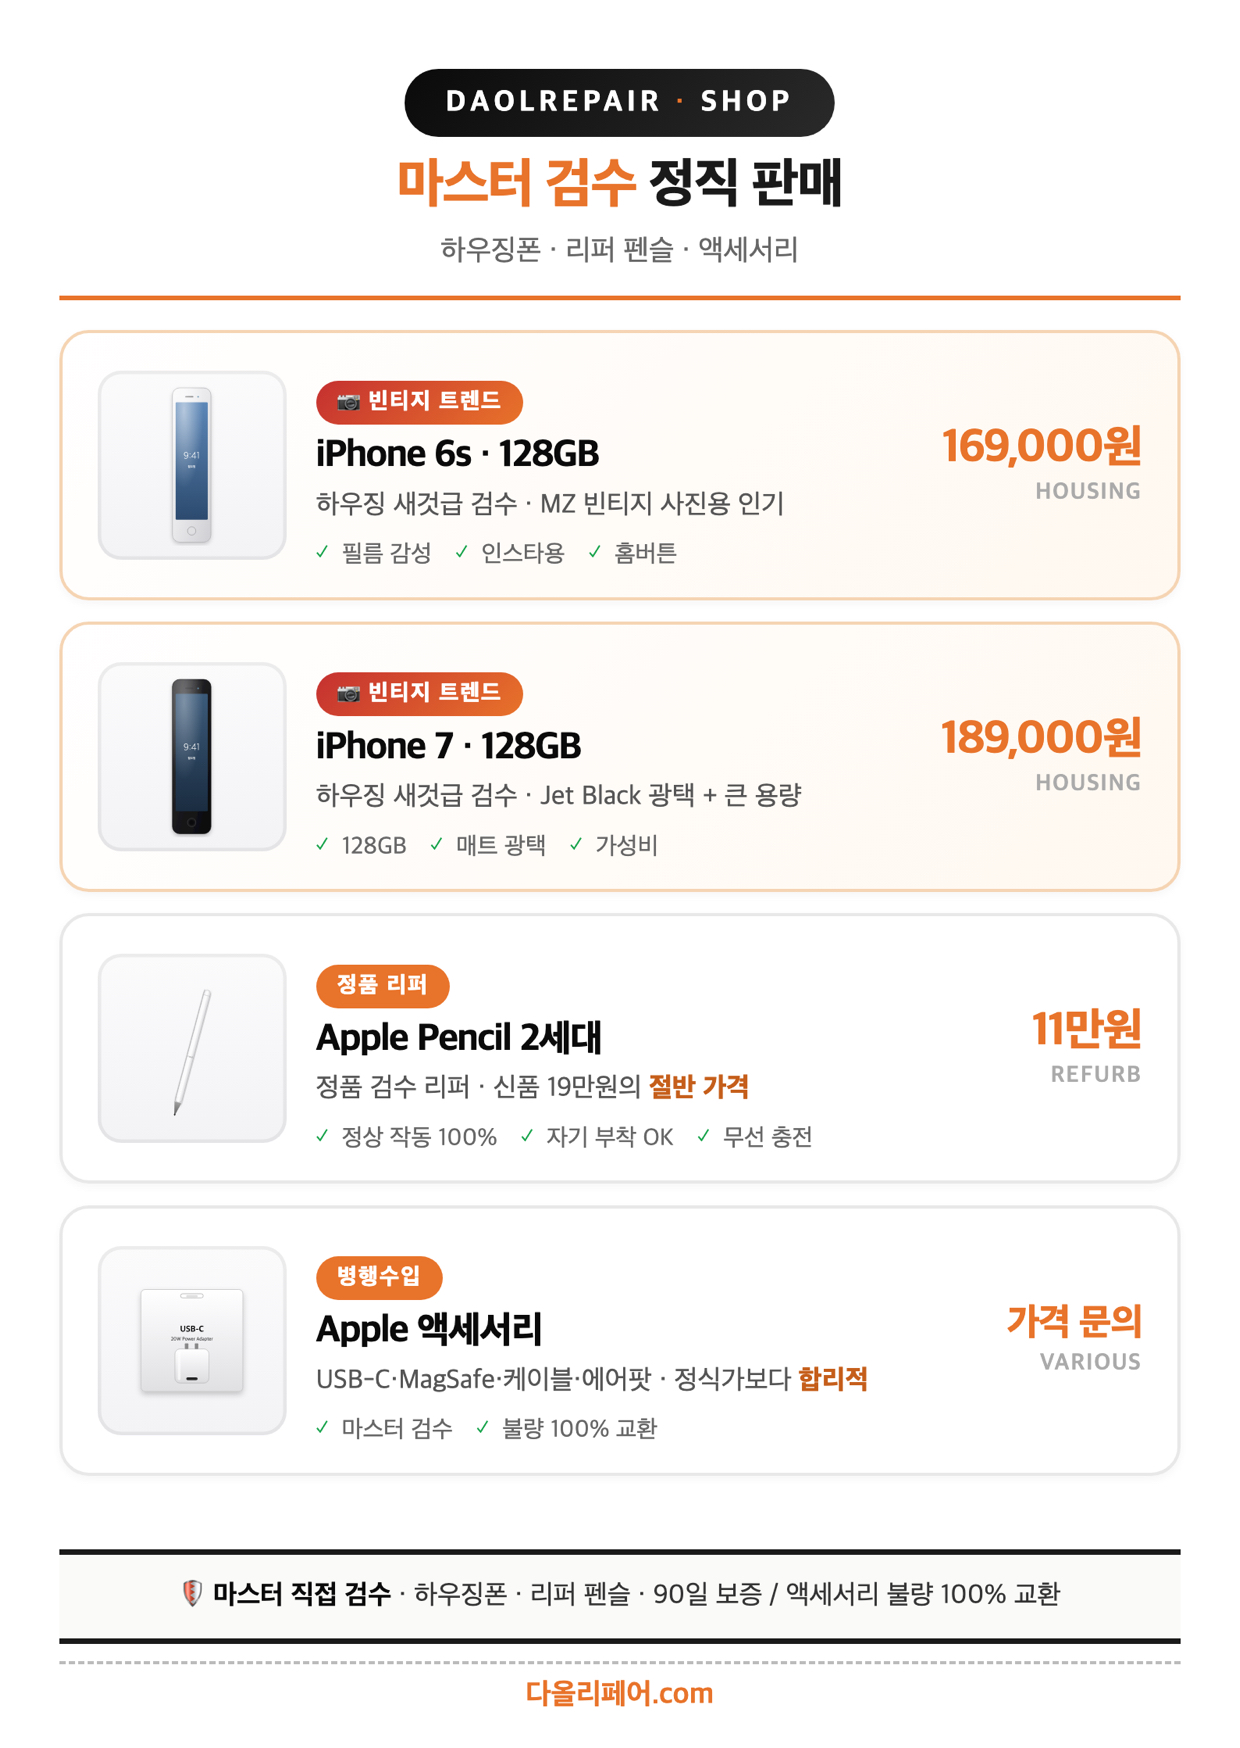
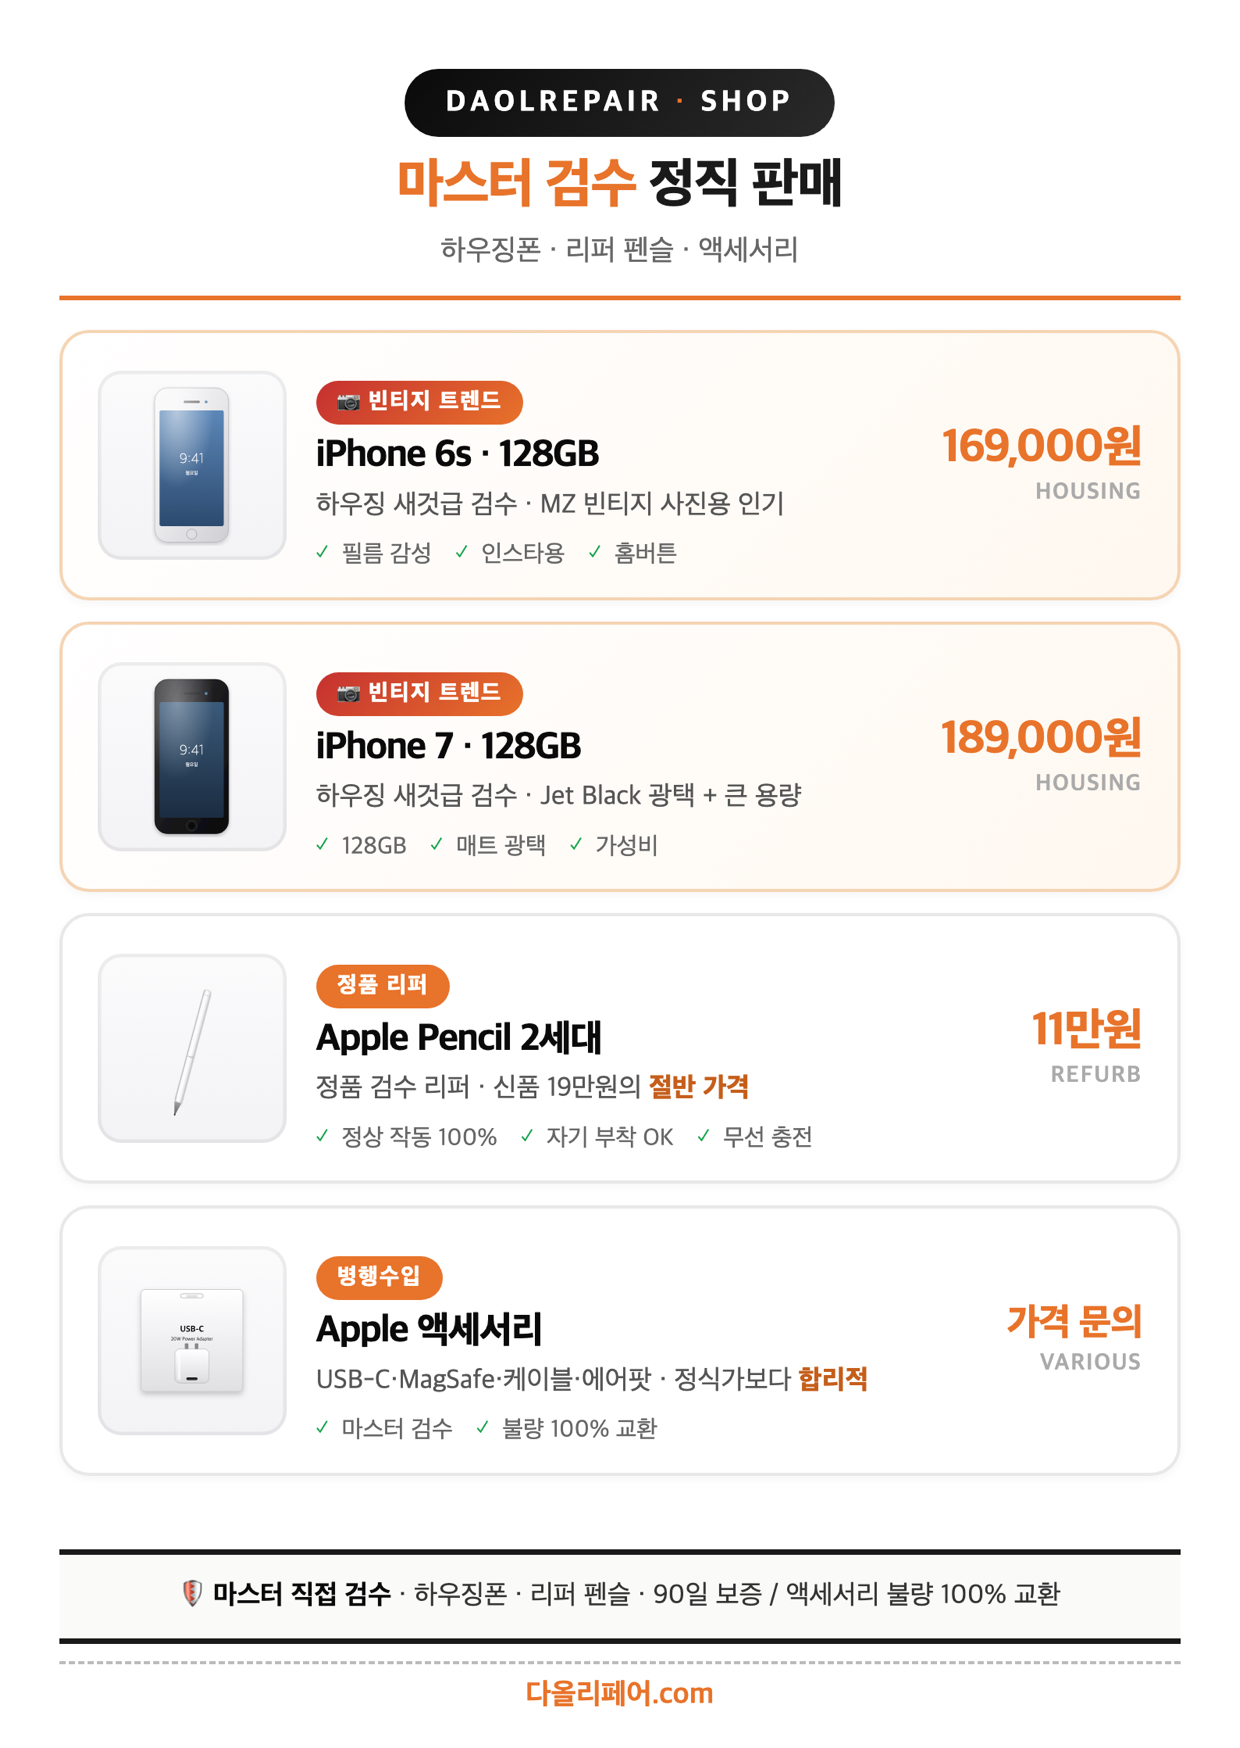
SHOP A6 — iPhone SVG 비율 정정 (1:4 → 1:2.09 실제 비율)
- iPhone 6s/7 SVG가 viewBox 50×100 안에서 본체 24×96 (가로:세로 1:4) 으로
  너무 길게 그려져 있던 문제 수정
- 본체를 46×96 (1:2.09, 실제 iPhone 6s/7 비율)로 키워 viewBox 거의 가득 채움
- 화면·시계·홈버튼·스피커·카메라 좌표 모두 새 본체 비율에 맞게 재배치
- A6 JPG 재렌더링 완료

Changed region(s): [[0.1226, 0.3707, 0.1839, 0.4943], [0.1226, 0.2162, 0.1839, 0.3089]]

diff --git a/articles/notice-shop-print.html b/articles/notice-shop-print.html
@@ -252,7 +252,7 @@
     </div>
 
     <div class="a6-grid">
-      <!-- 1. iPhone 6s (Silver) — 실제 비율 1:2.06 -->
+      <!-- 1. iPhone 6s (Silver) — 실제 비율 1:2.06 (본체 46×96 ≈ viewBox 가득) -->
       <div class="a6-item featured">
         <div class="a6-item-img">
           <svg viewBox="0 0 50 100" xmlns="http://www.w3.org/2000/svg">
@@ -272,21 +272,21 @@
               </radialGradient>
               <filter id="i6s-shadow"><feDropShadow dx="0" dy="1.2" stdDeviation="1.2" flood-color="#000" flood-opacity="0.18"/></filter>
             </defs>
-            <!-- 본체 24×49 (실제 비율 1:2.04) -->
-            <rect x="13" y="2" width="24" height="96" rx="4.5" fill="url(#i6s-body)" stroke="#a8a8aa" stroke-width="0.3" filter="url(#i6s-shadow)"/>
+            <!-- 본체 46×96 (1:2.09, 실제 비율) — viewBox 거의 가득 -->
+            <rect x="2" y="2" width="46" height="96" rx="8" fill="url(#i6s-body)" stroke="#a8a8aa" stroke-width="0.3" filter="url(#i6s-shadow)"/>
             <!-- 화면 -->
-            <rect x="15" y="11" width="20" height="73" rx="0.6" fill="url(#i6s-screen)"/>
+            <rect x="5" y="16" width="40" height="72" rx="1" fill="url(#i6s-screen)"/>
             <!-- 시계 -->
-            <text x="25" y="46" text-anchor="middle" font-family="-apple-system,sans-serif" font-size="6" fill="#fff" font-weight="200">9:41</text>
-            <text x="25" y="51.5" text-anchor="middle" font-family="-apple-system,sans-serif" font-size="1.8" fill="#fff" opacity="0.85">월요일</text>
+            <text x="25" y="49" text-anchor="middle" font-family="-apple-system,sans-serif" font-size="9" fill="#fff" font-weight="200">9:41</text>
+            <text x="25" y="56" text-anchor="middle" font-family="-apple-system,sans-serif" font-size="3" fill="#fff" opacity="0.85">월요일</text>
             <!-- 스피커·카메라 -->
-            <rect x="21" y="7" width="5" height="0.9" rx="0.3" fill="#666"/>
-            <circle cx="29" cy="7.5" r="0.5" fill="#5a8aaa"/>
+            <rect x="20" y="10" width="10" height="1.4" rx="0.5" fill="#666"/>
+            <circle cx="34" cy="10.7" r="0.9" fill="#5a8aaa"/>
             <!-- 홈버튼 -->
-            <circle cx="25" cy="91" r="2.6" fill="none" stroke="#a8a8aa" stroke-width="0.4"/>
-            <circle cx="25" cy="91" r="1.8" fill="#e0e0e2"/>
+            <circle cx="25" cy="93" r="3.2" fill="none" stroke="#a8a8aa" stroke-width="0.4"/>
+            <circle cx="25" cy="93" r="2.2" fill="#e0e0e2"/>
             <!-- 광택 -->
-            <rect x="13" y="2" width="24" height="96" rx="4.5" fill="url(#i6s-shine)"/>
+            <rect x="2" y="2" width="46" height="96" rx="8" fill="url(#i6s-shine)"/>
           </svg>
         </div>
         <div class="a6-item-body">
@@ -302,7 +302,7 @@
         <div class="a6-item-price">169,000원<small>HOUSING</small></div>
       </div>
 
-      <!-- 2. iPhone 7 (Jet Black) — 실제 비율 1:2.06 -->
+      <!-- 2. iPhone 7 (Jet Black) — 실제 비율 1:2.06 (본체 46×96 ≈ viewBox 가득) -->
       <div class="a6-item featured">
         <div class="a6-item-img">
           <svg viewBox="0 0 50 100" xmlns="http://www.w3.org/2000/svg">
@@ -322,15 +322,15 @@
               </radialGradient>
               <filter id="i7-shadow"><feDropShadow dx="0" dy="1.2" stdDeviation="1.2" flood-color="#000" flood-opacity="0.25"/></filter>
             </defs>
-            <rect x="13" y="2" width="24" height="96" rx="4.5" fill="url(#i7-body)" stroke="#0a0a0c" stroke-width="0.3" filter="url(#i7-shadow)"/>
-            <rect x="15" y="11" width="20" height="73" rx="0.6" fill="url(#i7-screen)"/>
-            <text x="25" y="46" text-anchor="middle" font-family="-apple-system,sans-serif" font-size="6" fill="#fff" font-weight="200">9:41</text>
-            <text x="25" y="51.5" text-anchor="middle" font-family="-apple-system,sans-serif" font-size="1.8" fill="#fff" opacity="0.85">월요일</text>
-            <rect x="21" y="7" width="5" height="0.9" rx="0.3" fill="#1a1a1c"/>
-            <circle cx="29" cy="7.5" r="0.5" fill="#5a8aaa"/>
-            <circle cx="25" cy="91" r="2.6" fill="none" stroke="#3a3a3c" stroke-width="0.4"/>
-            <circle cx="25" cy="91" r="1.8" fill="#0a0a0c" stroke="#2a2a2c" stroke-width="0.2"/>
-            <rect x="13" y="2" width="24" height="96" rx="4.5" fill="url(#i7-shine)"/>
+            <rect x="2" y="2" width="46" height="96" rx="8" fill="url(#i7-body)" stroke="#0a0a0c" stroke-width="0.3" filter="url(#i7-shadow)"/>
+            <rect x="5" y="16" width="40" height="72" rx="1" fill="url(#i7-screen)"/>
+            <text x="25" y="49" text-anchor="middle" font-family="-apple-system,sans-serif" font-size="9" fill="#fff" font-weight="200">9:41</text>
+            <text x="25" y="56" text-anchor="middle" font-family="-apple-system,sans-serif" font-size="3" fill="#fff" opacity="0.85">월요일</text>
+            <rect x="20" y="10" width="10" height="1.4" rx="0.5" fill="#1a1a1c"/>
+            <circle cx="34" cy="10.7" r="0.9" fill="#5a8aaa"/>
+            <circle cx="25" cy="93" r="3.2" fill="none" stroke="#3a3a3c" stroke-width="0.4"/>
+            <circle cx="25" cy="93" r="2.2" fill="#0a0a0c" stroke="#2a2a2c" stroke-width="0.2"/>
+            <rect x="2" y="2" width="46" height="96" rx="8" fill="url(#i7-shine)"/>
           </svg>
         </div>
         <div class="a6-item-body">

diff --git a/dist/articles/notice-shop-print.html b/dist/articles/notice-shop-print.html
@@ -252,7 +252,7 @@
     </div>
 
     <div class="a6-grid">
-      <!-- 1. iPhone 6s (Silver) — 실제 비율 1:2.06 -->
+      <!-- 1. iPhone 6s (Silver) — 실제 비율 1:2.06 (본체 46×96 ≈ viewBox 가득) -->
       <div class="a6-item featured">
         <div class="a6-item-img">
           <svg viewBox="0 0 50 100" xmlns="http://www.w3.org/2000/svg">
@@ -272,21 +272,21 @@
               </radialGradient>
               <filter id="i6s-shadow"><feDropShadow dx="0" dy="1.2" stdDeviation="1.2" flood-color="#000" flood-opacity="0.18"/></filter>
             </defs>
-            <!-- 본체 24×49 (실제 비율 1:2.04) -->
-            <rect x="13" y="2" width="24" height="96" rx="4.5" fill="url(#i6s-body)" stroke="#a8a8aa" stroke-width="0.3" filter="url(#i6s-shadow)"/>
+            <!-- 본체 46×96 (1:2.09, 실제 비율) — viewBox 거의 가득 -->
+            <rect x="2" y="2" width="46" height="96" rx="8" fill="url(#i6s-body)" stroke="#a8a8aa" stroke-width="0.3" filter="url(#i6s-shadow)"/>
             <!-- 화면 -->
-            <rect x="15" y="11" width="20" height="73" rx="0.6" fill="url(#i6s-screen)"/>
+            <rect x="5" y="16" width="40" height="72" rx="1" fill="url(#i6s-screen)"/>
             <!-- 시계 -->
-            <text x="25" y="46" text-anchor="middle" font-family="-apple-system,sans-serif" font-size="6" fill="#fff" font-weight="200">9:41</text>
-            <text x="25" y="51.5" text-anchor="middle" font-family="-apple-system,sans-serif" font-size="1.8" fill="#fff" opacity="0.85">월요일</text>
+            <text x="25" y="49" text-anchor="middle" font-family="-apple-system,sans-serif" font-size="9" fill="#fff" font-weight="200">9:41</text>
+            <text x="25" y="56" text-anchor="middle" font-family="-apple-system,sans-serif" font-size="3" fill="#fff" opacity="0.85">월요일</text>
             <!-- 스피커·카메라 -->
-            <rect x="21" y="7" width="5" height="0.9" rx="0.3" fill="#666"/>
-            <circle cx="29" cy="7.5" r="0.5" fill="#5a8aaa"/>
+            <rect x="20" y="10" width="10" height="1.4" rx="0.5" fill="#666"/>
+            <circle cx="34" cy="10.7" r="0.9" fill="#5a8aaa"/>
             <!-- 홈버튼 -->
-            <circle cx="25" cy="91" r="2.6" fill="none" stroke="#a8a8aa" stroke-width="0.4"/>
-            <circle cx="25" cy="91" r="1.8" fill="#e0e0e2"/>
+            <circle cx="25" cy="93" r="3.2" fill="none" stroke="#a8a8aa" stroke-width="0.4"/>
+            <circle cx="25" cy="93" r="2.2" fill="#e0e0e2"/>
             <!-- 광택 -->
-            <rect x="13" y="2" width="24" height="96" rx="4.5" fill="url(#i6s-shine)"/>
+            <rect x="2" y="2" width="46" height="96" rx="8" fill="url(#i6s-shine)"/>
           </svg>
         </div>
         <div class="a6-item-body">
@@ -302,7 +302,7 @@
         <div class="a6-item-price">169,000원<small>HOUSING</small></div>
       </div>
 
-      <!-- 2. iPhone 7 (Jet Black) — 실제 비율 1:2.06 -->
+      <!-- 2. iPhone 7 (Jet Black) — 실제 비율 1:2.06 (본체 46×96 ≈ viewBox 가득) -->
       <div class="a6-item featured">
         <div class="a6-item-img">
           <svg viewBox="0 0 50 100" xmlns="http://www.w3.org/2000/svg">
@@ -322,15 +322,15 @@
               </radialGradient>
               <filter id="i7-shadow"><feDropShadow dx="0" dy="1.2" stdDeviation="1.2" flood-color="#000" flood-opacity="0.25"/></filter>
             </defs>
-            <rect x="13" y="2" width="24" height="96" rx="4.5" fill="url(#i7-body)" stroke="#0a0a0c" stroke-width="0.3" filter="url(#i7-shadow)"/>
-            <rect x="15" y="11" width="20" height="73" rx="0.6" fill="url(#i7-screen)"/>
-            <text x="25" y="46" text-anchor="middle" font-family="-apple-system,sans-serif" font-size="6" fill="#fff" font-weight="200">9:41</text>
-            <text x="25" y="51.5" text-anchor="middle" font-family="-apple-system,sans-serif" font-size="1.8" fill="#fff" opacity="0.85">월요일</text>
-            <rect x="21" y="7" width="5" height="0.9" rx="0.3" fill="#1a1a1c"/>
-            <circle cx="29" cy="7.5" r="0.5" fill="#5a8aaa"/>
-            <circle cx="25" cy="91" r="2.6" fill="none" stroke="#3a3a3c" stroke-width="0.4"/>
-            <circle cx="25" cy="91" r="1.8" fill="#0a0a0c" stroke="#2a2a2c" stroke-width="0.2"/>
-            <rect x="13" y="2" width="24" height="96" rx="4.5" fill="url(#i7-shine)"/>
+            <rect x="2" y="2" width="46" height="96" rx="8" fill="url(#i7-body)" stroke="#0a0a0c" stroke-width="0.3" filter="url(#i7-shadow)"/>
+            <rect x="5" y="16" width="40" height="72" rx="1" fill="url(#i7-screen)"/>
+            <text x="25" y="49" text-anchor="middle" font-family="-apple-system,sans-serif" font-size="9" fill="#fff" font-weight="200">9:41</text>
+            <text x="25" y="56" text-anchor="middle" font-family="-apple-system,sans-serif" font-size="3" fill="#fff" opacity="0.85">월요일</text>
+            <rect x="20" y="10" width="10" height="1.4" rx="0.5" fill="#1a1a1c"/>
+            <circle cx="34" cy="10.7" r="0.9" fill="#5a8aaa"/>
+            <circle cx="25" cy="93" r="3.2" fill="none" stroke="#3a3a3c" stroke-width="0.4"/>
+            <circle cx="25" cy="93" r="2.2" fill="#0a0a0c" stroke="#2a2a2c" stroke-width="0.2"/>
+            <rect x="2" y="2" width="46" height="96" rx="8" fill="url(#i7-shine)"/>
           </svg>
         </div>
         <div class="a6-item-body">
